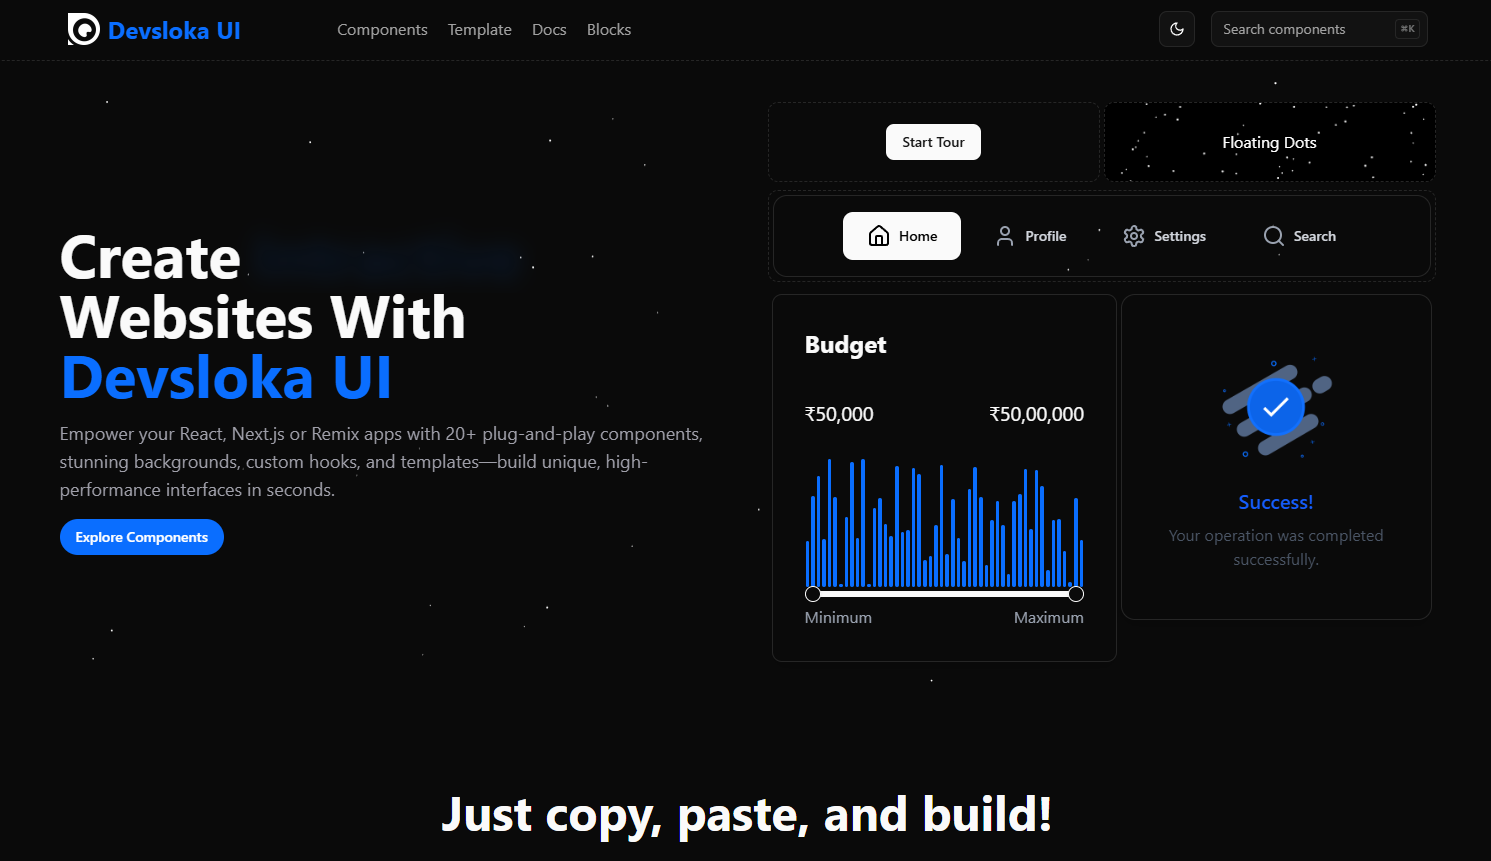
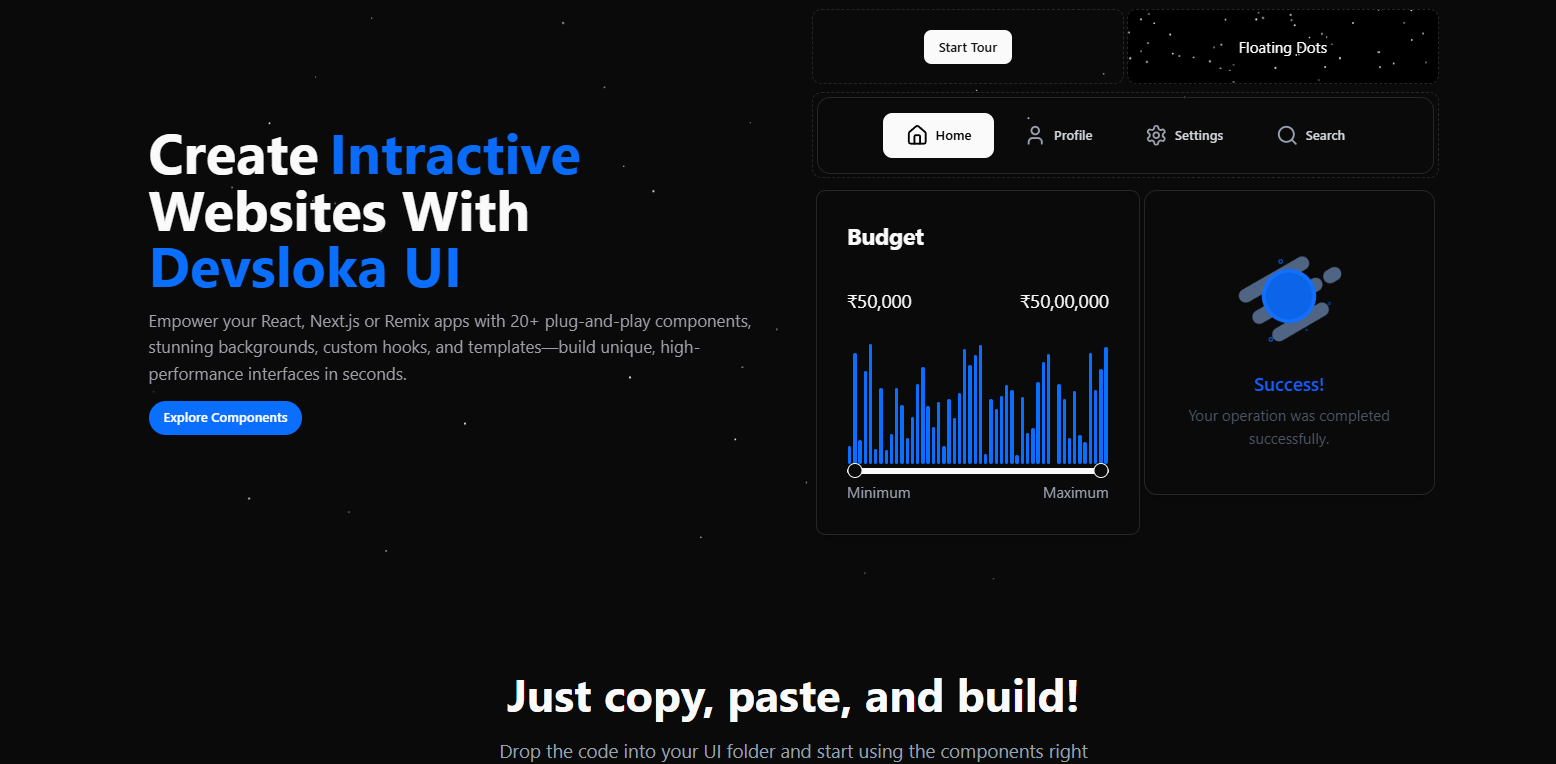
Update project details and add new components to globalData

diff --git a/src/data/globalData.ts b/src/data/globalData.ts
@@ -34,13 +34,25 @@ export const projects: Project[] = [
     description:
       "A UI library that provides a collection of reusable components, Blocks and templates for React and Next.js projects.",
     liveLink: "https://ui.devsloka.in/",
-    github: "https://github.com/yashraj970/YesMart-Ecommerce",
+    github: "https://github.com/yashraj970/AI-Agent-Template",
     content: [
       {
         image: "/images/projects/Blocks_Page.png",
         detailTitle: "Free Blocks Page: Pre-built Sections for Your Website",
         detailDesc:
           "Explore a variety of pre-designed blocks that you can easily integrate into your website. Each block is crafted to fit seamlessly into different sections of your site, allowing you to quickly build and customize your layout with minimal effort.",
+      },
+      {
+        image: "/images/projects/Components_Page.png",
+        detailTitle: "Components Collection",
+        detailDesc:
+          "Professionally designed UI components that cater to various functionalities and styles. These components are fully customizable, enabling you to create a unique user interface that aligns with your brand identity.",
+      },
+      {
+        image: "/images/projects/Templates_Page.png",
+        detailTitle: "Templates Page: Ready-Made Website Templates",
+        detailDesc:
+          "Browse through a selection of professionally designed website templates that cater to various industries and styles. These templates are fully customizable, enabling you to create a unique online presence that aligns with your brand identity.",
       },
     ],
   },
